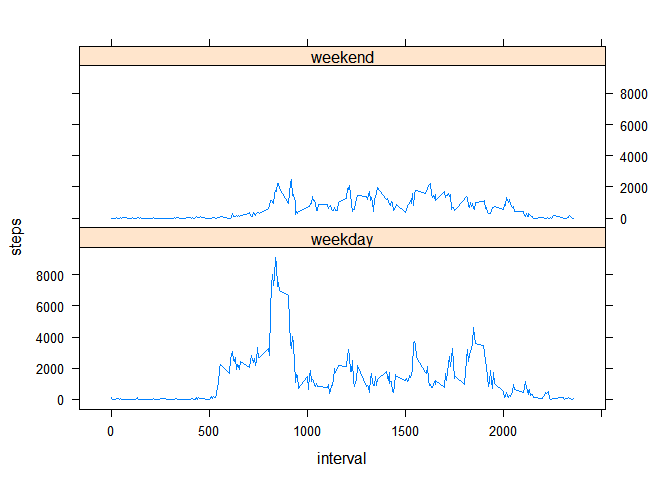
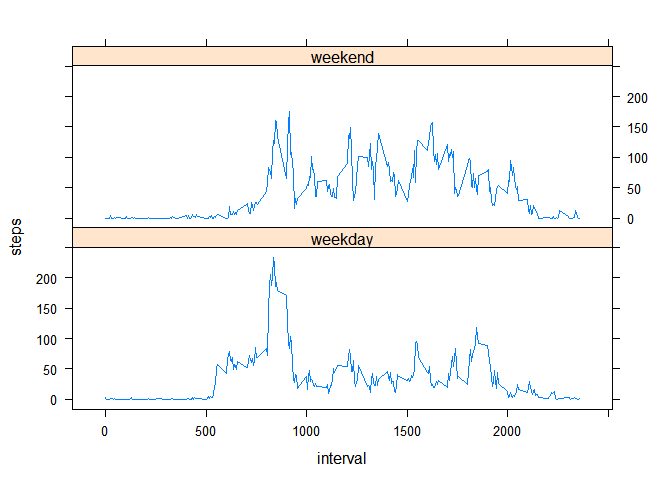
Corrected line graphs: Average steps per interval instead of total steps

diff --git a/PA1_template.html b/PA1_template.html
@@ -68,15 +68,15 @@ if (window.hljs && document.readyState && document.readyState === "complete") {
   raw_data &lt;- read.csv(&quot;activity.csv&quot;)
 
   ## Aggregate the raw data as sum of steps per day
-  steps_per_day &lt;- aggregate(steps ~ date, data = raw_data, FUN=sum)
+  total_steps_per_day &lt;- aggregate(steps ~ date, data = raw_data, FUN=sum)
 
-  ## Aggregate the raw data as sum of steps per interval
-  steps_per_interval &lt;- aggregate(steps ~ interval, data = raw_data, FUN=sum)</code></pre>
+  ## Aggregate the raw data as average of steps per interval
+  average_steps_per_interval &lt;- aggregate(steps ~ interval, data = raw_data, FUN=mean)</code></pre>
 </div>
 <div id="what-is-mean-total-number-of-steps-taken-per-day" class="section level2">
 <h2>What is mean total number of steps taken per day?</h2>
 <pre class="r"><code>  ## Draw a histogram of the steps recorded per day
-  hist(steps_per_day$steps, main = &quot;Steps taken per day&quot;, xlab = &quot;Steps&quot;, col=&quot;blue&quot;)</code></pre>
+  hist(total_steps_per_day$steps, main = &quot;Steps taken per day&quot;, xlab = &quot;Steps&quot;, col=&quot;blue&quot;)</code></pre>
 <p><img src="PA1_template_files/figure-html/steps_per_day-1.png" /></p>
 <pre class="r"><code>  ## Calculate the mean and median values of the steps recorded per day
   mean_steps_per_day &lt;- mean(steps_per_day$steps, na.rm = FALSE)
@@ -86,19 +86,23 @@ if (window.hljs && document.readyState && document.readyState === "complete") {
 <div id="what-is-the-average-daily-activity-pattern" class="section level2">
 <h2>What is the average daily activity pattern?</h2>
 <pre class="r"><code>  ## Draw a line graph of the steps recorded per interval
-  with(steps_per_interval, plot(interval, steps, type = &quot;n&quot;, main = &quot;Steps taken per interval&quot;, xlab = &quot;Interval&quot;, ylab = &quot;Steps&quot;))
-  with(steps_per_interval, lines(interval, steps, type=&quot;l&quot;))</code></pre>
+  with(average_steps_per_interval,
+       plot(interval, steps, type = &quot;n&quot;,
+            main = &quot;Steps taken per interval&quot;,
+            xlab = &quot;Interval&quot;, ylab = &quot;Steps&quot;))
+  with(average_steps_per_interval, lines(interval, steps, type=&quot;l&quot;))</code></pre>
 <p><img src="PA1_template_files/figure-html/steps_per_interval-1.png" /></p>
 <pre class="r"><code>  ## Subset the interval with most steps
-  max_steps &lt;- max(steps_per_interval$steps)
+  max_steps &lt;- max(average_steps_per_interval$steps)
   max_interval &lt;- subset(steps_per_interval, steps == max_steps)$interval</code></pre>
-<p>The interval with most steps is interval 835 with 10927 recorded steps.</p>
+<p>The interval with most steps is interval with 206.1698 recorded steps on average (rounded to four decimal places).</p>
 </div>
 <div id="imputing-missing-values" class="section level2">
 <h2>Imputing missing values</h2>
 <pre class="r"><code>  ## Count the number of NA data points
   number_na &lt;- sum(is.na(raw_data$steps))</code></pre>
-<p>There are 2304 invalid data points in the data set. To compensate for those unrecorded data points, we’re calculating a derived data set, where invalid values are replaced by the mean for the respective interval.</p>
+<p>There are 2304 invalid data points in the data set.</p>
+<p>To compensate for those unrecorded data points, we’re calculating a derived data set, where invalid values are replaced by the mean for the respective interval.</p>
 <pre class="r"><code>  ## Aggregate a data set of mean steps per interval
   mean_steps_per_interval &lt;- aggregate(steps ~ interval, data = raw_data, FUN=mean)
 
@@ -130,13 +134,14 @@ if (window.hljs && document.readyState && document.readyState === "complete") {
 </div>
 <div id="are-there-differences-in-activity-patterns-between-weekdays-and-weekends" class="section level2">
 <h2>Are there differences in activity patterns between weekdays and weekends?</h2>
-<p>The weekdays have a significant spike in the morning and a few more less prominent spikes in typical break or knocking-off times. The weekend seems quite balanced during the day in comparison, especially in the morning.</p>
+<p>The weekdays have a significant spike in the morning and a few less prominent spikes during typical break or knocking-off times. The weekend seems quite balanced during the day in comparison, especially in the morning.</p>
 <pre class="r"><code>  ## Add a weekend indicator variable to the raw data set
   wday_classifier &lt;- c(&quot;weekend&quot;, &quot;weekday&quot;, &quot;weekday&quot;, &quot;weekday&quot;, &quot;weekday&quot;, &quot;weekday&quot;, &quot;weekend&quot;)
   raw_data$weekend_indicator &lt;- wday_classifier[as.POSIXlt(raw_data$date)$wday + 1]
 
   ## Aggregate the raw data as sum of steps per interval
-  steps_per_interval_compared &lt;- aggregate(steps ~ interval + weekend_indicator, data = raw_data, FUN=sum)</code></pre>
+  steps_per_interval_compared &lt;- aggregate(steps ~ interval + weekend_indicator,
+                                           data = raw_data, FUN=mean)</code></pre>
 <pre class="r"><code>  ## We use the lattice system for this graph
   library(lattice)
 

diff --git a/PA1_template.md b/PA1_template.md
@@ -13,10 +13,10 @@
   raw_data <- read.csv("activity.csv")
 
   ## Aggregate the raw data as sum of steps per day
-  steps_per_day <- aggregate(steps ~ date, data = raw_data, FUN=sum)
+  total_steps_per_day <- aggregate(steps ~ date, data = raw_data, FUN=sum)
 
-  ## Aggregate the raw data as sum of steps per interval
-  steps_per_interval <- aggregate(steps ~ interval, data = raw_data, FUN=sum)
+  ## Aggregate the raw data as average of steps per interval
+  average_steps_per_interval <- aggregate(steps ~ interval, data = raw_data, FUN=mean)
 ```
 
 
@@ -25,7 +25,7 @@
 
 ```r
   ## Draw a histogram of the steps recorded per day
-  hist(steps_per_day$steps, main = "Steps taken per day", xlab = "Steps", col="blue")
+  hist(total_steps_per_day$steps, main = "Steps taken per day", xlab = "Steps", col="blue")
 ```
 
 ![](./PA1_template_files/figure-html/steps_per_day-1.png) 
@@ -45,8 +45,11 @@ The mean of the recorded step data per day is 10766.19 (rounded to two decimal p
 
 ```r
   ## Draw a line graph of the steps recorded per interval
-  with(steps_per_interval, plot(interval, steps, type = "n", main = "Steps taken per interval", xlab = "Interval", ylab = "Steps"))
-  with(steps_per_interval, lines(interval, steps, type="l"))
+  with(average_steps_per_interval,
+       plot(interval, steps, type = "n",
+            main = "Steps taken per interval",
+            xlab = "Interval", ylab = "Steps"))
+  with(average_steps_per_interval, lines(interval, steps, type="l"))
 ```
 
 ![](./PA1_template_files/figure-html/steps_per_interval-1.png) 
@@ -54,11 +57,11 @@ The mean of the recorded step data per day is 10766.19 (rounded to two decimal p
 
 ```r
   ## Subset the interval with most steps
-  max_steps <- max(steps_per_interval$steps)
+  max_steps <- max(average_steps_per_interval$steps)
   max_interval <- subset(steps_per_interval, steps == max_steps)$interval
 ```
 
-The interval with most steps is interval 835 with 10927 recorded steps.
+The interval with most steps is interval  with 206.1698 recorded steps on average (rounded to four decimal places).
 
 
 ## Imputing missing values
@@ -69,7 +72,9 @@ The interval with most steps is interval 835 with 10927 recorded steps.
   number_na <- sum(is.na(raw_data$steps))
 ```
 
-There are 2304 invalid data points in the data set. To compensate for those unrecorded data points, we're calculating a derived data set, where invalid values are replaced by the mean for the respective interval.
+There are 2304 invalid data points in the data set.
+
+To compensate for those unrecorded data points, we're calculating a derived data set, where invalid values are replaced by the mean for the respective interval.
 
 
 ```r
@@ -113,7 +118,7 @@ Since invalid data has the same impact to a sum as a zero-value, the histogram w
 
 ## Are there differences in activity patterns between weekdays and weekends?
 
-The weekdays have a significant spike in the morning and a few more less prominent spikes in typical break or knocking-off times. The weekend seems quite balanced during the day in comparison, especially in the morning.
+The weekdays have a significant spike in the morning and a few less prominent spikes during typical break or knocking-off times. The weekend seems quite balanced during the day in comparison, especially in the morning.
 
 
 ```r
@@ -122,7 +127,8 @@ The weekdays have a significant spike in the morning and a few more less promine
   raw_data$weekend_indicator <- wday_classifier[as.POSIXlt(raw_data$date)$wday + 1]
 
   ## Aggregate the raw data as sum of steps per interval
-  steps_per_interval_compared <- aggregate(steps ~ interval + weekend_indicator, data = raw_data, FUN=sum)
+  steps_per_interval_compared <- aggregate(steps ~ interval + weekend_indicator,
+                                           data = raw_data, FUN=mean)
 ```
 
 
